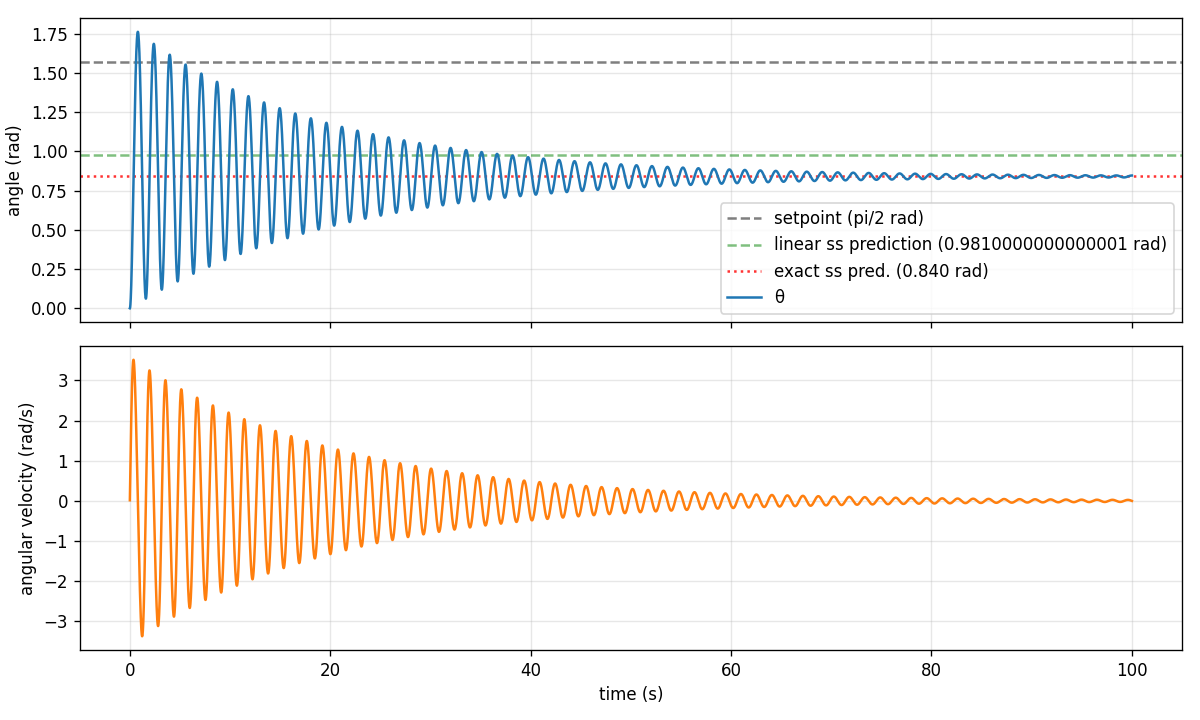
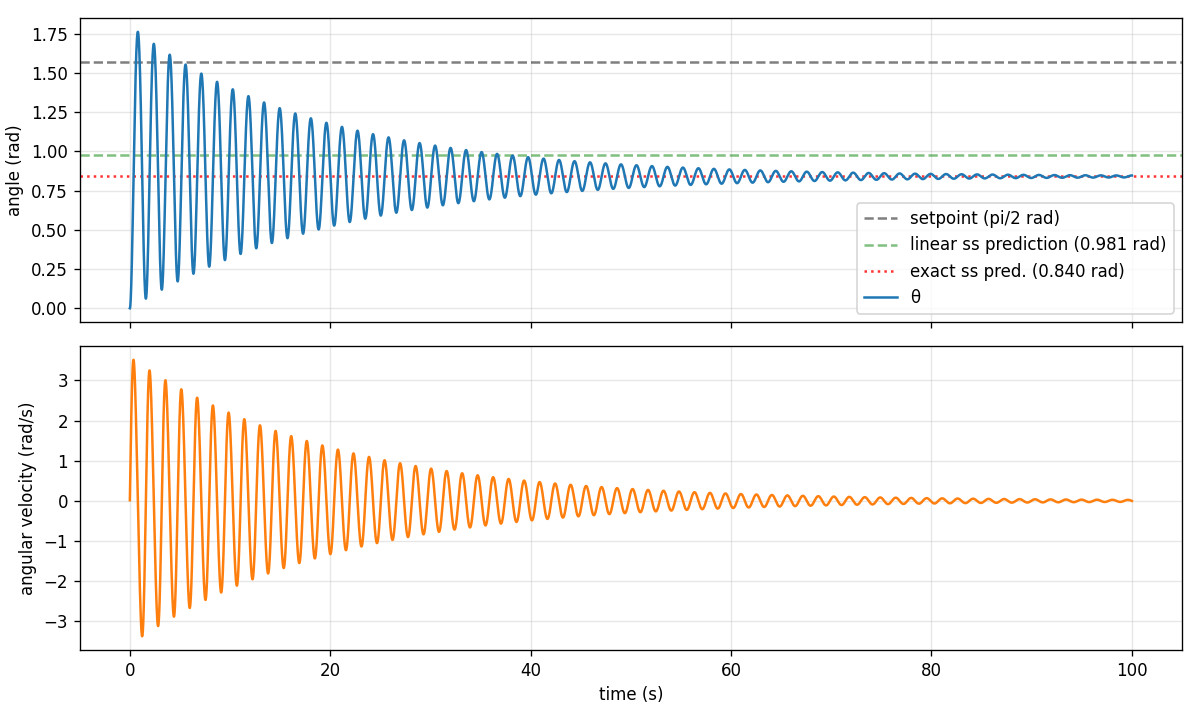
create data_helpers to store plotting, array functions

Changed region(s): [[0.5858, 0.275, 0.9867, 0.4278], [0.5858, 0.3972, 0.6167, 0.4278]]

diff --git a/numpy_experiments/pid_ff.py b/numpy_experiments/pid_ff.py
@@ -1,0 +1,52 @@
+import numpy as np
+import matplotlib.pyplot as plt
+from control.control import PID
+from plants.arm import Arm
+from numpy_experiments import data_helpers
+
+# simple experiment to test the PID controller + feedforward torque on the arm. We will apply a step input in desired angle and see how the arm responds under PI control.
+# gains tuned through practical method described in pid-theory
+
+
+if __name__ == "__main__":
+    arm = Arm(m=1.0, l=1.0, g=9.81, b=0.1, theta = 0.0, dt=0.001) # initialize arm with mass=1kg, length =1m, gravity=9.81m/s^2, damping=0.1, initial angle= 0 radians, timestep=0.001s
+    states =[]# list to store states for plotting
+    taus = [] # list to store torques for arrays
+    n = 50000 # n = timesteps, lower than last experiment
+    pid = PID(kp=10.0, ki=1.0, kd=8.0, dt=arm.dt) # initialize PID controller with kp, ki, high kd to show the effect of the D term
+    theta_d = np.pi/2 # desired angle step input (90 degrees)
+    exact_settle = data_helpers.solve_ss(theta_d, arm.m * arm.g * arm.l, pid.kp) # solves exact e_ss
+    for _ in range(n):
+        pid.update_theta(arm.theta)
+        tau = pid.calc_torque(theta_d)
+        state = arm.step(tau) # apply torque to the arm and get new state
+        states.append(state) # for plotting
+        taus.append(tau) # for data saving
+       
+    states = np.array(states)
+    taus = np.array(taus)
+    t_arr = np.arange(n) * arm.dt
+
+
+    # plot
+    fig, axes = plt.subplots(2, 1, figsize=(10, 6), sharex=True)
+    
+    axes[0].axhline(theta_d, color='k', linestyle='--', alpha=0.5, label='setpoint (pi/2 rad)')
+    linear_prediction = arm.m * arm.g * arm.l / pid.kp #calculation for linear prediction of e_ss = mgl/kp
+    axes[0].axhline(.98, color='green', linestyle='--', alpha=0.5, label=f'linear ss prediction ({linear_prediction:.3f} rad)')
+    axes[0].axhline(exact_settle, color='red', linestyle=':', alpha=0.8, label=f'exact ss pred. ({exact_settle:.3f} rad)')
+    axes[0].plot(t_arr, states[:, 0], label='θ')
+    axes[0].set_ylabel('angle (rad)')
+    axes[0].legend()
+    axes[0].grid(alpha=0.3)
+    
+    axes[1].plot(t_arr, states[:, 1], color='tab:orange', label='θ̇')
+    axes[1].set_ylabel('angular velocity (rad/s)')
+    axes[1].set_xlabel('time (s)')
+    axes[1].grid(alpha=0.3)
+    
+    plt.tight_layout()
+    plt.savefig('outputs/plots/pid.png', dpi=120)
+    plt.show()
+    
+    data_helpers.save_run('outputs/arrays/pid.npz', t_arr, states, np.array(taus), theta_d, arm, pid) # save data for later analysis

diff --git a/numpy_experiments/p_only.py b/numpy_experiments/p_only.py
@@ -2,6 +2,7 @@ import numpy as np
 import matplotlib.pyplot as plt
 from control.control import PID
 from plants.arm import Arm
+from numpy_experiments import data_helpers
 
 # simple experiment to test the P term of the PID controller on the arm. We will apply a step input in desired angle and see how the arm responds under just P control.
 # the linear small error prediction is e_ss = mgl/kp which is around .98 rad. the actual reponse gives e_ss of around .84 rad
@@ -9,24 +10,7 @@ from plants.arm import Arm
 #k_p tuned to reflect steady state error, and the failure of linear approximation
 # longer run for convergence to steady state error
 
-#define function to save data
-def save_run(filename, t, states, taus, theta_d, arm, pid):
-    np.savez(
-        filename,
-        t=t,
-        theta=states[:, 0],
-        theta_dot=states[:, 1],
-        tau=taus,
-        setpoint=theta_d,
-        kp=pid.kp, ki=pid.ki, kd=pid.kd,
-        m=arm.m, l=arm.l, g=arm.g, b=arm.b, dt=arm.dt,
-    )
-# define function for exact e_ss using the non linear equation e_ss = theta_d - mgl*sin(theta_d - e_ss)/kp, can be solved iteratively
-def solve_ss(theta_d, mgl, kp, n_iter=100):
-    theta_ss = theta_d
-    for _ in range(n_iter):
-        theta_ss = theta_d - mgl * np.sin(theta_ss) / kp
-    return theta_ss
+
 
 
 if __name__ == "__main__":
@@ -36,7 +20,7 @@ if __name__ == "__main__":
     n = 100000 # n = timesteps
     pid = PID(kp=10.0, ki=0.0, kd=0.0, dt=arm.dt) # initialize PID controller with only P term
     theta_d = np.pi/2 # desired angle step input (90 degrees)
-    exact_settle = solve_ss(theta_d, arm.m * arm.g * arm.l, pid.kp) # solves exact e_ss
+    exact_settle = data_helpers.solve_ss(theta_d, arm.m * arm.g * arm.l, pid.kp) # solves exact e_ss
     for _ in range(n):
         pid.update_theta(arm.theta)
         tau = pid.calc_torque(theta_d)
@@ -70,4 +54,4 @@ if __name__ == "__main__":
     plt.savefig('outputs/plots/p_only.png', dpi=120)
     plt.show()
     
-    save_run('outputs/arrays/p_only.npz', t_arr, states, np.array(taus), theta_d, arm, pid) # save data for later analysis
+    data_helpers.save_run('outputs/arrays/p_only.npz', t_arr, states, np.array(taus), theta_d, arm, pid) # save data for later analysis

diff --git a/numpy_experiments/pi.py b/numpy_experiments/pi.py
@@ -2,6 +2,7 @@ import numpy as np
 import matplotlib.pyplot as plt
 from control.control import PID
 from plants.arm import Arm
+from numpy_experiments import data_helpers
 
 # simple experiment to test the PI terms of the PID controller on the arm. We will apply a step input in desired angle and see how the arm responds under PI control.
 #k_p will be kept from last experiment to reflect steady state error, and the failure of linear approximation.
@@ -9,25 +10,6 @@ from plants.arm import Arm
 # lower n, smaller dt for forward euler stability
 # you should see non decaying oscillations around the setpoint. close to the setpoint, but needs k_d to dampen the oscillations.
 
-#define function to save data
-def save_run(filename, t, states, taus, theta_d, arm, pid):
-    np.savez(
-        filename,
-        t=t,
-        theta=states[:, 0],
-        theta_dot=states[:, 1],
-        tau=taus,
-        setpoint=theta_d,
-        kp=pid.kp, ki=pid.ki, kd=pid.kd,
-        m=arm.m, l=arm.l, g=arm.g, b=arm.b, dt=arm.dt,
-    )
-
-# define function for exact e_ss using the non linear equation e_ss = theta_d - mgl*sin(theta_d - e_ss)/kp, can be solved iteratively
-def solve_ss(theta_d, mgl, kp, n_iter=100):
-    theta_ss = theta_d
-    for _ in range(n_iter):
-        theta_ss = theta_d - mgl * np.sin(theta_ss) / kp
-    return theta_ss
 
 
 if __name__ == "__main__":
@@ -37,7 +19,7 @@ if __name__ == "__main__":
     n = 50000 # n = timesteps, lower than last experiment
     pid = PID(kp=10.0, ki=1.0, kd=0.0, dt=arm.dt) # initialize PID controller with kp from last experiment and add ki 
     theta_d = np.pi/2 # desired angle step input (90 degrees)
-    exact_settle = solve_ss(theta_d, arm.m * arm.g * arm.l, pid.kp) # solves exact e_ss
+    exact_settle = data_helpers.solve_ss(theta_d, arm.m * arm.g * arm.l, pid.kp) # solves exact e_ss
     for _ in range(n):
         pid.update_theta(arm.theta)
         tau = pid.calc_torque(theta_d)
@@ -71,5 +53,5 @@ if __name__ == "__main__":
     plt.savefig('outputs/plots/pi.png', dpi=120)
     plt.show()
     
-    save_run('outputs/arrays/pi.npz', t_arr, states, np.array(taus), theta_d, arm, pid) # save data for later analysis
+    data_helpers.save_run('outputs/arrays/pi.npz', t_arr, states, np.array(taus), theta_d, arm, pid) # save data for later analysis
 

diff --git a/numpy_experiments/data_helpers.py b/numpy_experiments/data_helpers.py
@@ -1,0 +1,20 @@
+import numpy as np
+
+#define function to save data
+def save_run(filename, t, states, taus, theta_d, arm, pid):
+    np.savez(
+        filename,
+        t=t,
+        theta=states[:, 0],
+        theta_dot=states[:, 1],
+        tau=taus,
+        setpoint=theta_d,
+        kp=pid.kp, ki=pid.ki, kd=pid.kd,
+        m=arm.m, l=arm.l, g=arm.g, b=arm.b, dt=arm.dt,
+    )
+# define function for exact e_ss using the non linear equation e_ss = theta_d - mgl*sin(theta_d - e_ss)/kp, can be solved iteratively
+def solve_ss(theta_d, mgl, kp, n_iter=100):
+    theta_ss = theta_d
+    for _ in range(n_iter):
+        theta_ss = theta_d - mgl * np.sin(theta_ss) / kp
+    return theta_ss